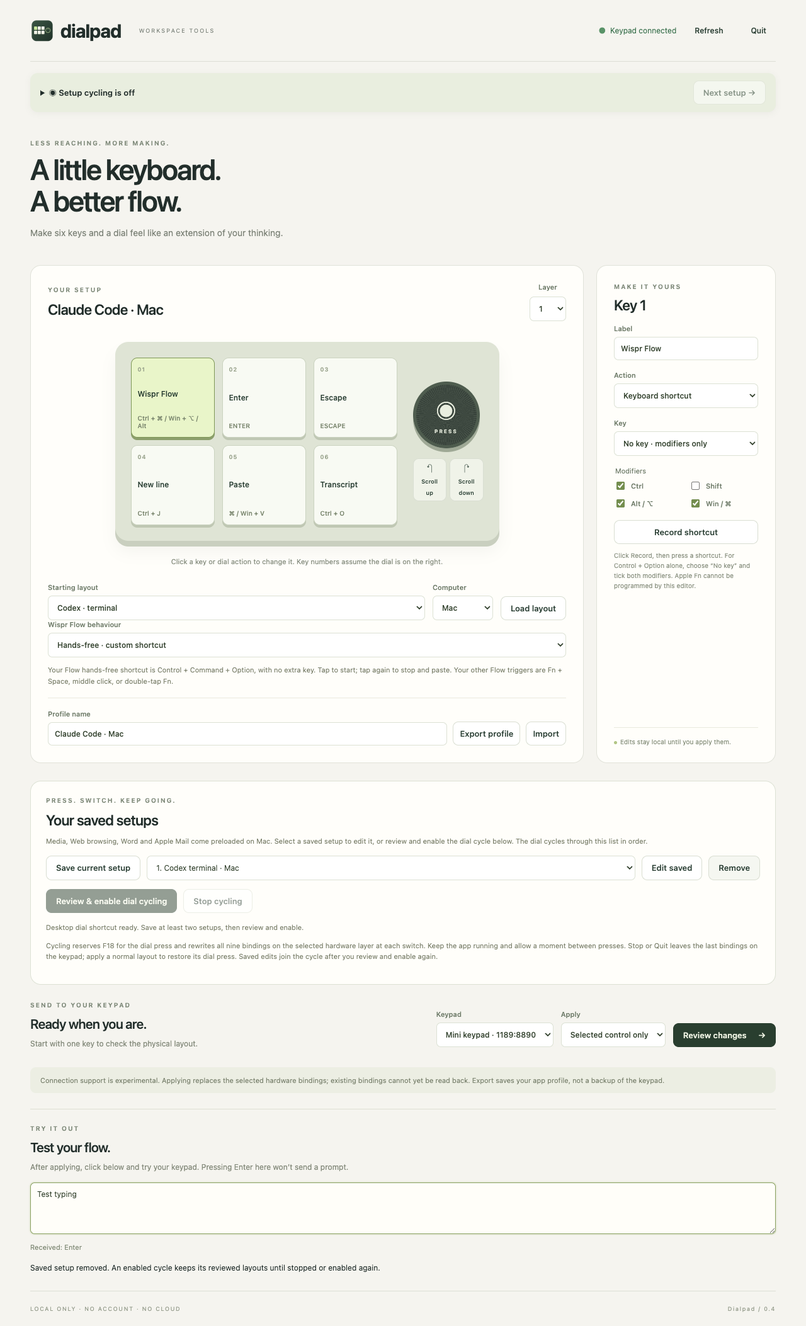
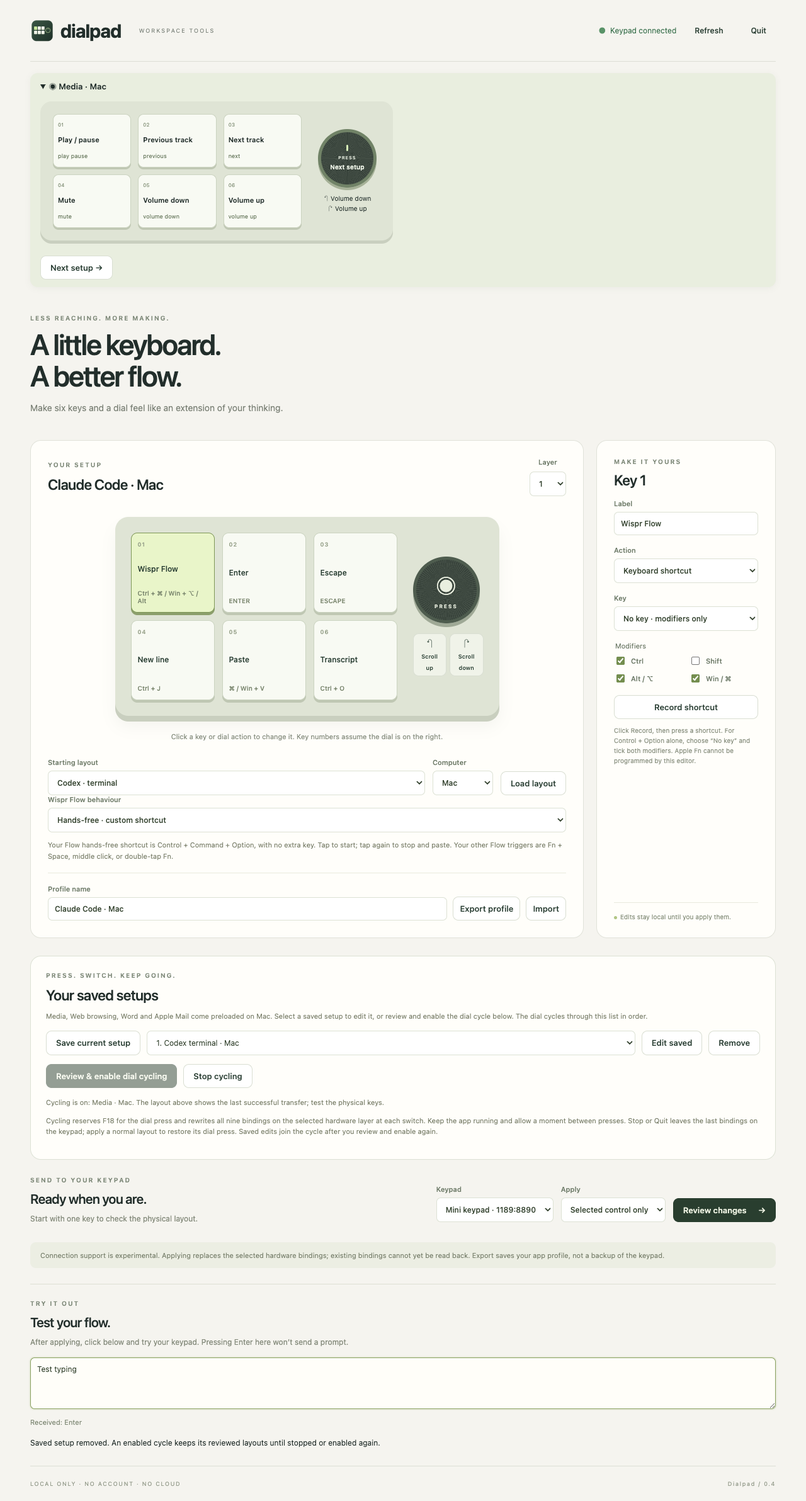
Show visual keypad previews in menu bar and live layout

diff --git a/native/DialpadDesktop.swift b/native/DialpadDesktop.swift
@@ -2,6 +2,82 @@ import Cocoa
 import WebKit
 import Carbon
 
+// One scalable diagram is shared by the menu-bar preview and floating window.
+final class KeypadPreview: NSView {
+    var profile: [String: Any]?
+    var title = "Cycling off"
+    var detail = "Enable a saved setup in the editor."
+    override var isFlipped: Bool { true }
+
+    override init(frame: NSRect) {
+        super.init(frame: frame)
+        setAccessibilityElement(true)
+        setAccessibilityRole(.image)
+    }
+    required init?(coder: NSCoder) { fatalError("init(coder:) has not been implemented") }
+
+    func configure(profile: [String: Any]?, title: String, detail: String) {
+        self.profile = profile; self.title = title; self.detail = detail
+        setAccessibilityLabel(title + ". " + detail)
+        toolTip = detail
+        needsDisplay = true
+    }
+
+    func color(_ red: CGFloat, _ green: CGFloat, _ blue: CGFloat) -> NSColor {
+        NSColor(calibratedRed: red, green: green, blue: blue, alpha: 1)
+    }
+    func box(_ rect: NSRect, radius: CGFloat, fill: NSColor) {
+        fill.setFill(); NSBezierPath(roundedRect: rect, xRadius: radius, yRadius: radius).fill()
+    }
+    func text(_ value: String, _ rect: NSRect, size: CGFloat, bold: Bool = false, centered: Bool = false, ink: NSColor? = nil, wrap: Bool = false) {
+        let style = NSMutableParagraphStyle()
+        style.alignment = centered ? .center : .left
+        style.lineBreakMode = wrap ? .byWordWrapping : .byTruncatingTail
+        (value as NSString).draw(in: rect, withAttributes: [.font: NSFont.systemFont(ofSize: size, weight: bold ? .semibold : .regular), .foregroundColor: ink ?? color(0.16, 0.24, 0.18), .paragraphStyle: style])
+    }
+    func action(_ control: String) -> String {
+        let bindings = profile?["bindings"] as? [String: [String: Any]] ?? [:]
+        let binding = bindings[control] ?? [:]
+        if binding["type"] as? String == "shortcut" {
+            let symbols = ["ctrl":"⌃", "alt":"⌥", "cmd":"⌘", "shift":"⇧"]
+            let modifiers = (binding["modifiers"] as? [String] ?? []).map { symbols[$0] ?? $0 }.joined()
+            let key = binding["key"] as? String ?? ""
+            return modifiers + (key == "NONE" ? "" : key)
+        }
+        return (binding["action"] as? String ?? "").replacingOccurrences(of: "_", with: " ")
+    }
+    override func draw(_ dirtyRect: NSRect) {
+        super.draw(dirtyRect)
+        guard let context = NSGraphicsContext.current?.cgContext else { return }
+        context.saveGState()
+        context.scaleBy(x: bounds.width / 440, y: bounds.height / 280)
+        box(NSRect(x: 0, y: 0, width: 440, height: 280), radius: 14, fill: color(0.97, 0.97, 0.94))
+        text(title, NSRect(x: 20, y: 15, width: 400, height: 25), size: 16, bold: true)
+        box(NSRect(x: 12, y: 56, width: 416, height: 181), radius: 21, fill: color(0.77, 0.81, 0.72))
+        box(NSRect(x: 12, y: 50, width: 416, height: 181), radius: 21, fill: color(0.87, 0.9, 0.83))
+        let labels = profile?["labels"] as? [String: String] ?? [:]
+        for index in 0..<6 {
+            let control = "key\(index + 1)"
+            let x = CGFloat(26 + (index % 3) * 94), y = CGFloat(66 + (index / 3) * 79)
+            box(NSRect(x: x, y: y + 4, width: 84, height: 68), radius: 9, fill: color(0.72, 0.77, 0.66))
+            box(NSRect(x: x, y: y, width: 84, height: 68), radius: 9, fill: index == 0 && profile != nil ? color(0.84, 0.93, 0.7) : color(0.98, 0.99, 0.95))
+            text("0\(index + 1)", NSRect(x: x + 7, y: y + 5, width: 65, height: 12), size: 8, ink: color(0.48, 0.55, 0.43))
+            text(labels[control] ?? "Key \(index + 1)", NSRect(x: x + 5, y: y + 22, width: 74, height: 25), size: 10, bold: true, centered: true, wrap: true)
+            text(action(control), NSRect(x: x + 4, y: y + 49, width: 76, height: 14), size: 8, centered: true)
+        }
+        color(0.61, 0.67, 0.55).setFill(); NSBezierPath(ovalIn: NSRect(x: 321, y: 85, width: 91, height: 91)).fill()
+        color(0.24, 0.32, 0.26).setFill(); NSBezierPath(ovalIn: NSRect(x: 321, y: 80, width: 91, height: 91)).fill()
+        color(0.76, 0.87, 0.65).setStroke()
+        let tick = NSBezierPath(); tick.move(to: NSPoint(x: 366.5, y: 89)); tick.line(to: NSPoint(x: 366.5, y: 103)); tick.lineWidth = 3; tick.stroke()
+        text("PRESS", NSRect(x: 328, y: 112, width: 78, height: 14), size: 8, centered: true, ink: .white)
+        text(labels["dial_press"] ?? "—", NSRect(x: 325, y: 130, width: 83, height: 30), size: 10, bold: true, centered: true, ink: .white)
+        text("↶ " + (labels["dial_ccw"] ?? "Turn left"), NSRect(x: 313, y: 184, width: 106, height: 15), size: 9, centered: true)
+        text("↷ " + (labels["dial_cw"] ?? "Turn right"), NSRect(x: 313, y: 204, width: 106, height: 15), size: 9, centered: true)
+        text(profile == nil ? detail : "LIVE LAYOUT  ·  Press the dial to switch setups", NSRect(x: 20, y: 248, width: 400, height: 25), size: 10)
+        context.restoreGState()
+    }
+}
+
 // The host receives the session URL on stdin, never through the process arguments.
 final class Desktop: NSObject, NSApplicationDelegate, WKNavigationDelegate, WKUIDelegate, WKDownloadDelegate {
     let url: URL
@@ -10,7 +86,10 @@ final class Desktop: NSObject, NSApplicationDelegate, WKNavigationDelegate, WKUI
     var web: WKWebView!
     var status: NSStatusItem!
     var panel: NSPanel!
-    var panelText: NSTextField!
+    var panelPreview: KeypadPreview!
+    var menuPreview: KeypadPreview!
+    var currentProfile: [String: Any]?
+    var menuFingerprint = ""
     var hotKey: EventHotKeyRef?
     var handler: EventHandlerRef?
     var timer: Timer?
@@ -69,7 +148,7 @@ final class Desktop: NSObject, NSApplicationDelegate, WKNavigationDelegate, WKUI
         window.center()
         web.load(URLRequest(url: url))
         showEditor()
-        (panel, panelText) = makePanel(width: 350, height: 315)
+        (panel, panelPreview) = makePanel(width: 440, height: 280)
         panel.isMovableByWindowBackground = true
         if UserDefaults.standard.bool(forKey: "floatingLayout") { panel.orderFrontRegardless() }
         status = NSStatusBar.system.statusItem(withLength: NSStatusItem.variableLength)
@@ -101,7 +180,7 @@ final class Desktop: NSObject, NSApplicationDelegate, WKNavigationDelegate, WKUI
         timer = Timer.scheduledTimer(withTimeInterval: 0.6, repeats: true) { _ in self.poll() }
     }
 
-    func makePanel(width: CGFloat, height: CGFloat) -> (NSPanel, NSTextField) {
+    func makePanel(width: CGFloat, height: CGFloat) -> (NSPanel, KeypadPreview) {
         let panel = NSPanel(contentRect: NSRect(x: 0, y: 0, width: width, height: height), styleMask: [.nonactivatingPanel, .titled, .closable], backing: .buffered, defer: false)
         panel.title = "Dialpad · live layout"
         panel.level = .floating
@@ -109,16 +188,13 @@ final class Desktop: NSObject, NSApplicationDelegate, WKNavigationDelegate, WKUI
         panel.isReleasedWhenClosed = false
         panel.collectionBehavior = [.canJoinAllSpaces, .fullScreenAuxiliary]
         panel.backgroundColor = NSColor(calibratedRed: 0.96, green: 0.96, blue: 0.93, alpha: 1)
-        let text = NSTextField(wrappingLabelWithString: summary)
-        text.frame = NSRect(x: 18, y: 12, width: width - 36, height: height - 24)
-        text.autoresizingMask = [.width, .height]
-        text.font = .systemFont(ofSize: 13)
-        text.textColor = NSColor(calibratedRed: 0.16, green: 0.24, blue: 0.18, alpha: 1)
-        panel.contentView?.addSubview(text)
+        let preview = KeypadPreview(frame: NSRect(x: 0, y: 0, width: width, height: height))
+        preview.autoresizingMask = [.width, .height]
+        panel.contentView = preview
         if let screen = NSScreen.main?.visibleFrame {
             panel.setFrameTopLeftPoint(NSPoint(x: screen.maxX - width - 24, y: screen.maxY - 35))
         }
-        return (panel, text)
+        return (panel, preview)
     }
 
     func poll() {
@@ -131,7 +207,7 @@ final class Desktop: NSObject, NSApplicationDelegate, WKNavigationDelegate, WKUI
                 self.enabled = false
                 self.currentName = "Disconnected"
                 self.summary = "Dialpad is disconnected. Reopen the app to reconnect."
-                self.panelText.stringValue = self.summary
+                self.currentProfile = nil
                 self.refreshMenu()
             }
         }
@@ -150,6 +226,7 @@ final class Desktop: NSObject, NSApplicationDelegate, WKNavigationDelegate, WKUI
     func update(_ state: [String: Any]) {
         enabled = state["enabled"] as? Bool ?? false
         if let profile = state["current"] as? [String: Any], enabled {
+            currentProfile = profile
             currentName = profile["name"] as? String ?? "Setup"
             let labels = profile["labels"] as? [String: String] ?? [:]
             let bindings = profile["bindings"] as? [String: [String: Any]] ?? [:]
@@ -159,25 +236,29 @@ final class Desktop: NSObject, NSApplicationDelegate, WKNavigationDelegate, WKUI
             }
             summary = currentName + "\n\n" + rows.joined(separator: "\n\n") + "\n\n↶ \(describe(bindings["dial_ccw"] ?? [:]))   ↷ \(describe(bindings["dial_cw"] ?? [:]))\nPress dial → Next setup"
         } else {
+            currentProfile = nil
             currentName = "Cycling off"
             let error = state["error"] as? String ?? ""
             if !error.isEmpty { currentName = "Needs attention" }
             summary = error.isEmpty ? "Setup cycling is off.\n\nOpen the editor to save and enable setups.\n\nThe keypad keeps its last written bindings. Reapply a normal layout to restore the dial press." : error
         }
-        panelText.stringValue = summary
         refreshMenu()
     }
 
     func refreshMenu() {
         status.button?.title = " " + String(currentName.prefix(24))
-        status.button?.toolTip = summary
+        status.button?.toolTip = currentName + " · Click to view the keypad"
+        panelPreview.configure(profile: currentProfile, title: currentName, detail: summary)
+        menuPreview?.configure(profile: currentProfile, title: currentName, detail: summary)
+        let fingerprint = currentName + summary + String(enabled)
+        if fingerprint == menuFingerprint { return }
+        menuFingerprint = fingerprint
         let menu = NSMenu()
-        let heading = NSMenuItem(title: currentName, action: nil, keyEquivalent: "")
-        menu.addItem(heading)
-        let lines = summary.components(separatedBy: "\n").filter({ !$0.isEmpty })
-        for line in (lines.first == currentName ? Array(lines.dropFirst()) : lines) {
-            menu.addItem(NSMenuItem(title: line, action: nil, keyEquivalent: ""))
-        }
+        let diagram = NSMenuItem()
+        menuPreview = KeypadPreview(frame: NSRect(x: 0, y: 0, width: 440, height: 280))
+        menuPreview.configure(profile: currentProfile, title: currentName, detail: summary)
+        diagram.view = menuPreview
+        menu.addItem(diagram)
         menu.addItem(.separator())
         let next = menu.addItem(withTitle: "Next setup", action: #selector(nextSetup), keyEquivalent: "")
         next.target = self; next.isEnabled = enabled
@@ -198,7 +279,7 @@ final class Desktop: NSObject, NSApplicationDelegate, WKNavigationDelegate, WKUI
             if let error = error {
                 self.currentName = "Switch failed"
                 self.summary = error
-                self.panelText.stringValue = error
+                self.currentProfile = nil
                 self.refreshMenu()
                 self.poll()
             }
@@ -244,6 +325,22 @@ final class Desktop: NSObject, NSApplicationDelegate, WKNavigationDelegate, WKUI
             }
         }
     }
+}
+
+// Render a supplied fixture for visual review, without starting the server or hotkey.
+if CommandLine.arguments.count == 3 && CommandLine.arguments[1] == "--render-layout" {
+    _ = NSApplication.shared
+    guard let line = readLine(), let data = line.data(using: .utf8),
+          let profile = (try? JSONSerialization.jsonObject(with: data)) as? [String: Any] else { exit(2) }
+    let view = KeypadPreview(frame: NSRect(x: 0, y: 0, width: 440, height: 280))
+    view.configure(profile: profile, title: profile["name"] as? String ?? "Preview", detail: "Visual fixture only")
+    let window = NSWindow(contentRect: view.bounds, styleMask: .borderless, backing: .buffered, defer: false)
+    window.contentView = view
+    guard let bitmap = view.bitmapImageRepForCachingDisplay(in: view.bounds) else { exit(2) }
+    view.cacheDisplay(in: view.bounds, to: bitmap)
+    guard let png = bitmap.representation(using: .png, properties: [:]) else { exit(2) }
+    do { try png.write(to: URL(fileURLWithPath: CommandLine.arguments[2])) } catch { exit(2) }
+    exit(0)
 }
 
 guard let line = readLine(), let url = URL(string: line), url.host == "127.0.0.1" else { exit(1) }

diff --git a/ui/style.css b/ui/style.css
@@ -1,2 +1,3 @@
 :root{font-family:Inter,-apple-system,BlinkMacSystemFont,"Segoe UI",sans-serif;color:#222e2b;background:#f5f4ef;font-synthesis:none}*{box-sizing:border-box}body{margin:0}.shell{max-width:1280px;margin:auto;padding:0 48px}header{height:98px;display:flex;align-items:center;justify-content:space-between;border-bottom:1px solid #dcded5}.brand{color:inherit;text-decoration:none;font-size:30px;display:flex;gap:10px;align-items:center;letter-spacing:-1px}.brand span{font-size:9px;letter-spacing:2px;margin-left:18px;color:#7c837b}.header-actions{display:flex;gap:14px;align-items:center}.status{font-size:12px;color:#66716b}.status.connected{color:#366e4a}.status.connected:before{content:'●';margin-right:7px;color:#599368}button,input,select,textarea{font:inherit}button{cursor:pointer;border:1px solid #d9ded2;border-radius:9px;background:#fff;padding:10px 15px;color:#263b30;font-size:13px;font-weight:550;transition:background .15s,transform .15s}button:hover{background:#edf1e6}button:disabled{cursor:wait;opacity:.5}button:focus-visible,a:focus-visible{outline:3px solid #8ca760;outline-offset:3px}.subtle{background:transparent;border:0;font-size:12px}.intro{padding:43px 0 29px}.eyebrow{font-size:10px!important;letter-spacing:2px;font-weight:650;color:#7e8979!important;margin:0 0 12px}h1{font-size:46px;letter-spacing:-2px;line-height:1.08;font-weight:550;margin:0 0 17px}h2{font-size:23px;font-weight:550;letter-spacing:-.6px;margin:0}.intro>p:last-child{font-size:14px;color:#7c8277}.workspace{display:grid;grid-template-columns:minmax(0,1fr) 285px;gap:20px}.layout-panel,.editor{background:#fffefa;border:1px solid #e0e2d9;border-radius:17px;padding:27px}.panel-top{display:flex;align-items:center;justify-content:space-between}.compact{display:flex;align-items:center;gap:9px!important}.compact select{width:58px}.keypad{background:#dfe4d5;border-radius:21px;box-shadow:0 9px 0 #c9cfbf,0 17px 24px #2538200d;display:flex;gap:25px;padding:25px;max-width:610px;margin:33px auto 25px;align-items:center}.keys{display:grid;grid-template-columns:repeat(3,minmax(0,1fr));gap:12px;flex:1}.key{position:relative;aspect-ratio:1.05;min-width:0;border:1px solid #cbd3c0;background:#f8faf3;box-shadow:0 4px 0 #bfc7b3;text-align:left;padding:12px 10px;display:flex;flex-direction:column;justify-content:space-between;border-radius:10px}.key.selected{background:#e9f5c9;border-color:#7e9757;box-shadow:0 4px 0 #8c9f6c}.key .number{font-size:9px;color:#98a28b;letter-spacing:1px}.key .key-label{font-size:12px;overflow:hidden;text-overflow:ellipsis;white-space:nowrap}.key .key-shortcut{font-size:10px;color:#78846c}.dial-area{width:112px;flex-shrink:0}.dial{width:106px;height:106px;border-radius:50%;background:repeating-conic-gradient(#37423a 0deg 2deg,#455047 2deg 4deg);border:5px solid #4e5c4e;box-shadow:0 6px 0 #9fa996;color:#e9eedf;display:flex;flex-direction:column;align-items:center;justify-content:center;gap:3px}.dial:hover{background:#4a5c45}.dial.selected{outline:3px solid #93ad66;outline-offset:3px}.dial span{font-size:35px;font-weight:300}.dial small{font-size:8px;letter-spacing:2px}.rotations{display:flex;gap:5px;margin-top:16px}.rotations button{padding:6px;font-size:15px;background:#f0f3e9;flex:1}.rotations button span{font-size:9px}.rotations .selected{background:#d7edb0;border-color:#83955b}.caption{font-size:11px;color:#8b9284;text-align:center;line-height:1.5;margin:22px 0 26px}label{display:flex;flex-direction:column;gap:7px;font-size:11px;font-weight:550;color:#6f7c6a}input,select,textarea{width:100%;border:1px solid #dce1d4;background:#fff;border-radius:7px;padding:10px;color:#34432f;font-size:12px;outline:none}input:focus,select:focus,textarea:focus{border-color:#879f5d;box-shadow:0 0 0 2px #a4b67a22}.setup-row{display:flex;gap:12px;align-items:end}.setup-row label:first-child{flex:1}.setup-row button{white-space:nowrap}.note{font-size:11px;color:#7d826e;line-height:1.6}.profile-tools{display:flex;align-items:end;gap:9px;border-top:1px solid #e9eade;padding-top:18px;margin-top:18px}.profile-tools label{flex:1}.profile-tools button{white-space:nowrap;padding:10px}.editor{display:flex;flex-direction:column;gap:17px}.editor .eyebrow{margin:0}.editor h2{margin-top:-7px}.editor fieldset{border:0;margin:17px 0;padding:0}.editor legend{font-size:11px;color:#6f7c6a;margin-bottom:8px}.modifiers{display:grid;grid-template-columns:1fr 1fr;gap:9px}.modifiers label{flex-direction:row;align-items:center;font-size:11px}.modifiers input{width:auto;accent-color:#748e4f}.hint{font-size:10px;line-height:1.6;color:#8e9585}.wide{width:100%}.editor-footer{font-size:10px;color:#8c9582;border-top:1px solid #e9eade;padding-top:16px;margin-top:auto}.tiny-dot{display:inline-block;background:#b1c584;border-radius:50%;width:5px;height:5px;margin-right:5px}.apply-panel{display:flex;align-items:center;justify-content:space-between;gap:25px;padding:26px 0 18px}.apply-panel h2{font-size:21px}.apply-panel p:not(.eyebrow),.tester p:not(.eyebrow){font-size:12px;color:#868c7d}.apply-controls{display:flex;gap:12px;align-items:end}.apply-controls label{max-width:195px}.primary{background:#293e2f;color:#eef3e3;border-color:#293e2f;white-space:nowrap}.primary:hover{background:#405c37}.primary span{margin-left:15px}.notice{padding:12px 16px;background:#eceee3;color:#7a826e;border-radius:9px;font-size:11px;line-height:1.6}.tester{margin-top:25px;border-top:1px solid #dddfd3;padding-top:24px}.tester h2{font-size:21px}textarea{resize:vertical;background:#fffef9;margin:5px 0 7px}output{font-size:11px;color:#7e8874}#message{min-height:26px;font-size:12px;margin-top:16px;line-height:1.6}#message.error{color:#9b462e}footer{margin-top:20px;padding:22px 0;border-top:1px solid #dcded5;font-size:9px;letter-spacing:1.6px;color:#969d8d;display:flex;justify-content:space-between}dialog{border:1px solid #d9decf;border-radius:17px;padding:28px;max-width:500px;width:90%;color:#26372d}dialog::backdrop{background:#1a281f77;backdrop-filter:blur(3px)}#review-content{font-size:13px;line-height:1.8;margin:20px 0;white-space:pre-line}.dialog-actions{display:flex;justify-content:end;gap:10px}body.busy{cursor:progress}[hidden]{display:none!important}@media(max-width:1000px){.shell{padding:0 24px}.workspace{grid-template-columns:1fr 255px}.keypad{gap:15px;padding:17px}.dial-area{width:90px}.dial{width:85px;height:85px}.key{padding:8px}.apply-panel{align-items:start;flex-direction:column}.apply-controls{width:100%}.brand span{display:none}}@media(max-width:760px){.workspace{grid-template-columns:1fr}h1{font-size:37px}.shell{padding:0 17px}.header-actions{gap:3px}.status{font-size:10px}.brand{font-size:24px}.layout-panel,.editor{padding:20px}.setup-row,.profile-tools{flex-wrap:wrap}.apply-controls{flex-wrap:wrap}.keypad{gap:13px}.keys{gap:8px}.key .key-label{font-size:10px}.key .key-shortcut{font-size:8px}.dial-area{width:75px}.dial{width:73px;height:73px}.rotations button span{display:none}.caption{font-size:10px}}
 .live-bar{display:flex;align-items:center;justify-content:space-between;gap:12px;margin-top:18px;padding:12px 16px;background:#e9eedf;border-radius:12px;position:sticky;top:8px;z-index:2;box-shadow:0 2px 10px #2538200d}.live-bar details{min-width:0;flex:1}.live-bar summary{cursor:pointer;font-size:13px;font-weight:600;overflow-wrap:anywhere}#live-keys{font-size:12px;line-height:1.8;padding-top:12px;display:grid;grid-template-columns:repeat(3,minmax(0,1fr));gap:8px;overflow-wrap:anywhere}.saved-panel{margin-top:28px;border:1px solid #dce1d4;border-radius:17px;padding:24px;background:#fffefa}.saved-tools{display:flex;gap:10px;flex-wrap:wrap;margin:14px 0}.saved-tools select{flex:1;min-width:160px}.saved-tools button{white-space:normal}#review-content{max-height:45vh;overflow:auto}#live-layout[open]+button{align-self:start}@media(max-width:760px){#live-keys{grid-template-columns:1fr}.live-bar{align-items:start}.live-bar button{max-width:120px}.saved-panel{padding:18px}}
+#live-keys{display:block;max-width:560px}.live-bar:has(details[open]){flex-wrap:wrap}.live-bar details[open]{flex-basis:100%}.mini-keypad{display:flex;align-items:center;gap:20px;padding:20px;background:#dfe4d5;border-radius:18px;box-shadow:0 5px 0 #c9cfbf;margin:3px 0 12px}.mini-keys{display:grid;grid-template-columns:repeat(3,minmax(0,1fr));gap:11px;flex:1;min-width:0}.mini-key{display:flex;flex-direction:column;justify-content:space-between;min-width:0;min-height:85px;padding:9px 7px;border-radius:9px;background:#f8faf3;box-shadow:0 3px 0 #bfc7b3;border:1px solid #cbd3c0}.mini-number{font-size:8px;color:#89967e}.mini-label{font-size:11px;font-weight:600;line-height:1.3;overflow-wrap:anywhere;display:-webkit-box;-webkit-line-clamp:2;-webkit-box-orient:vertical;overflow:hidden}.mini-shortcut{font-size:9px;color:#65765a;white-space:nowrap;overflow:hidden;text-overflow:ellipsis}.mini-dial-area{width:105px;flex:none;text-align:center}.mini-dial{width:93px;height:93px;margin:0 auto 9px;border-radius:50%;border:5px solid #718367;background:repeating-conic-gradient(#37423a 0deg 2deg,#455047 2deg 4deg);box-shadow:0 4px 0 #a6b197;color:#eff5e8;display:flex;flex-direction:column;justify-content:center;align-items:center;padding:8px;line-height:1.3}.mini-dial:before{content:'';height:10px;width:3px;background:#d6edb7;border-radius:2px;margin-bottom:6px}.mini-dial small{font-size:7px;letter-spacing:1px}.mini-dial span{font-size:10px;margin-top:4px;font-weight:600}.mini-turn{font-size:10px;line-height:1.6;overflow-wrap:anywhere}@media(max-width:760px){.mini-keypad{padding:12px;gap:10px}.mini-keys{gap:7px}.mini-key{min-height:76px;padding:6px 5px}.mini-label{font-size:9px}.mini-shortcut{font-size:8px}.mini-dial-area{width:70px}.mini-dial{width:68px;height:68px;border-width:3px;padding:5px}.mini-dial span{font-size:8px}.mini-dial:before{height:7px;margin-bottom:3px}.mini-turn{font-size:8px}}

diff --git a/ui/app.js b/ui/app.js
@@ -113,8 +113,18 @@ function showRuntime(data){
  $('next-setup').disabled=!data.enabled||cyclePending;
  $('live-title').textContent=data.enabled?'◉ '+data.current.name:'◉ Setup cycling is off';
  $('live-keys').replaceChildren();
- if(data.current){controls.forEach(c=>{const row=document.createElement('div');row.textContent=(data.current.labels?.[c]||names[c])+' · '+describe(data.current.bindings[c]);$('live-keys').append(row);});}
- else $('live-keys').textContent=data.error||'Enable saved setups below to show the active layout. The editor may contain unapplied changes.';
+ const current=data.enabled?data.current:null;
+ const pad=document.createElement('div');pad.className='mini-keypad';pad.setAttribute('role','group');pad.setAttribute('aria-label','Live six-key keypad layout');
+ const keys=document.createElement('div');keys.className='mini-keys';
+ controls.slice(0,6).forEach((c,i)=>{const key=document.createElement('div');key.className='mini-key';const label=current?.labels?.[c]||names[c],binding=current?describe(current.bindings[c]):'—';key.title=label+' · '+binding;
+ for(const [cls,value] of [['mini-number','0'+(i+1)],['mini-label',label],['mini-shortcut',binding]]){const span=document.createElement('span');span.className=cls;span.textContent=value;key.append(span);}keys.append(key);});
+ const dial=document.createElement('div');dial.className='mini-dial-area';
+ const face=document.createElement('div');face.className='mini-dial';
+ const press=document.createElement('small');press.textContent='PRESS';face.append(press);
+ const label=document.createElement('span');label.textContent=current?.labels?.dial_press||'—';face.append(label);face.title=current?describe(current.bindings.dial_press):'No active layout';dial.append(face);
+ for(const [c,arrow] of [['dial_ccw','↶'],['dial_cw','↷']]){const turn=document.createElement('div');turn.className='mini-turn';turn.textContent=arrow+' '+(current?.labels?.[c]||(c==='dial_ccw'?'Turn left':'Turn right'));turn.title=current?describe(current.bindings[c]):'';dial.append(turn);}
+ pad.append(keys,dial);$('live-keys').append(pad);
+ if(!current){const note=document.createElement('p');note.className='note';note.textContent=data.error||'Cycling is off. Enable saved setups to see the active bindings.';$('live-keys').append(note);}
  $('cycle-note').textContent=data.error||(data.enabled?'Cycling is on: '+data.cycle_names.join(' → ')+'. The layout above shows the last successful transfer; test the physical keys.':data.ready?'Desktop dial shortcut ready. Save at least two setups, then review and enable.':'Open the packaged desktop app to enable the global dial shortcut.');
 }
 async function refreshRuntime(){

diff --git a/tests/ui_smoke.py b/tests/ui_smoke.py
@@ -103,6 +103,17 @@ try:
         expect(page.locator('#profile-name')).to_have_value('Claude Code · Mac')
         page.locator('#remove-setup').click()
         expect(page.locator('#saved-setup option')).to_have_count(1)
+        # Render the live diagram using a mocked active state; no hardware Apply.
+        current = json.loads((ROOT / 'ui/starters.json').read_text())['mac']['media']
+        current['labels']['dial_press'] = 'Next setup'
+        current['bindings']['dial_press'] = {'type':'shortcut','key':'F18','modifiers':[]}
+        saved_state.update(enabled=True, current=current, cycle_names=[current['name']], active=0, generation=1)
+        expect(page.locator('#live-title')).to_contain_text('Media')
+        page.locator('#live-title').click()
+        expect(page.locator('.mini-key')).to_have_count(6)
+        expect(page.locator('.mini-dial')).to_contain_text('Next setup')
+        expect(page.locator('.mini-turn').first).to_contain_text('Volume down')
+        page.locator('#live-keys').screenshot(path=str(ROOT/'research'/'live-layout-preview.png'))
         page.locator('#test-input').fill('Test typing')
         page.locator('#test-input').press('Enter')
         assert 'Enter' in page.locator('#test-event').inner_text()

diff --git a/README.md b/README.md
@@ -4,7 +4,7 @@ A local six-key + dial configurator for AI coding. Built for the `1189:8890` CH5
 
 ## Run on this Mac
 
-Open `dist/Dialpad.app`. The editor opens in its own Mac window. Its menu-bar item shows the current cycling setup: hover for the bindings, click for the full list or **Show / hide floating layout**. Closing the editor keeps the companion running; **Quit Dialpad** stops both. No installation or Python setup is needed for the packaged app.
+Open `dist/Dialpad.app`. The editor opens in its own Mac window. Its menu-bar item shows the current cycling setup: click for a visual six-key-and-dial preview or **Show / hide floating layout**. Closing the editor keeps the companion running; **Quit Dialpad** stops both. No installation or Python setup is needed for the packaged app.
 
 The source version runs with Python 3.10+: `python3 app.py`. macOS source development additionally needs libusb; the packaged app includes it. Windows uses built-in HID APIs. Neither route executes the manufacturer's software.
 
@@ -26,7 +26,7 @@ Profiles are **not** read from the hardware. Applying replaces the selected cont
 1. **Media, Web browsing, Word and Apple Mail are already saved on first launch on Mac.** You do not need to create them. Upgrading adds them alongside existing setups, with room for eight total. Windows includes Media, Web browsing and Word; Apple Mail is Mac-only.
 2. Choose a saved setup and **Edit saved** to customize it, or add a coding layout with **Save current setup**. Their list order is the cycling order. Use the same hardware layer for every setup. Your edits and removals survive restarting; Starting layout retains the bundled originals if you want to restore one.
 3. Select the keypad and click **Review & enable dial cycling**. Review the entire cycle, then **Apply to keypad**. This immediately sends the first setup and replaces the dial press with **F18 → Next setup**.
-4. Press the dial to send the next setup. The Mac menu-bar label and editor header update quietly to show the last successfully transferred layout. Hover or click the menu-bar icon for its bindings; an optional floating panel is also available. Turn the dial to use that setup's scrolling actions. Physical results still need testing.
+4. Press the dial to send the next setup. The Mac menu-bar label and editor header update quietly to show the last successfully transferred layout. Click the menu-bar icon for a miniature keypad with labels and shortcuts placed on the keys. The optional floating panel and expanded editor header use the same physical arrangement. Turn the dial to use that setup's scrolling actions. Physical results still need testing.
 
 Cycling is handled by the running app, not an internal firmware layer-switch command. Each switch rewrites all nine bindings on the same layer. The protocol provides no read-back, persistence guarantee, or write-endurance specification; use it for occasional setup changes. Allow at least 1.2 seconds between presses; presses during a transfer are ignored. A failed transfer stops cycling and marks the device state unknown, with no retry or rollback.
 

diff --git a/research/VALIDATION.md b/research/VALIDATION.md
@@ -38,3 +38,9 @@ Bundled Media, Web browsing, Word desktop and Apple Mail layouts now populate a 
 Added an original six-key-and-dial SVG, rendered PNG, multi-resolution Mac ICNS and Windows ICO. Mac packaging references Dialpad.icns; the native host loads the matching PNG for its Dock icon, and the editor uses the SVG. The menu bar has a matching monochrome keypad symbol. Removed automatic floating notification panels entirely; setup changes and error details remain in the menu bar, tooltip and editor. The optional user-opened layout panel remains available.
 
 All 34 unit tests, packaged browser smoke and native Mac smoke passed. Verified the bundle icon reference and native icon asset, and strict deep code-signature verification passed. No hardware writes were performed.
+
+## Visual live keypad previews
+
+Replaced the Mac menu's text-only binding list and floating window with a shared native vector keypad view: two rows of three keys, labelled dial press, and two rotation labels. The expanded editor header now mirrors that arrangement with responsive HTML/CSS. Labels, shortcuts and media/scroll dial actions come from the current enabled setup, not unapplied editor changes. Cycling-off and disconnected views clear active mappings and retain explanatory state. Accessibility text and full-detail tooltips accompany the native graphic.
+
+Packaged browser smoke passed with mocked active Media bindings: six visual keys, Next setup dial press, volume rotation labels, and no horizontal overflow at 390px. Native rendering was inspected using a Word fixture without registering a hotkey or writing to USB. The finished native packaged smoke and strict deep code-signature check passed. Screenshots: `native-layout-preview.png` and `live-layout-preview.png`. No hardware bindings were written during verification.
